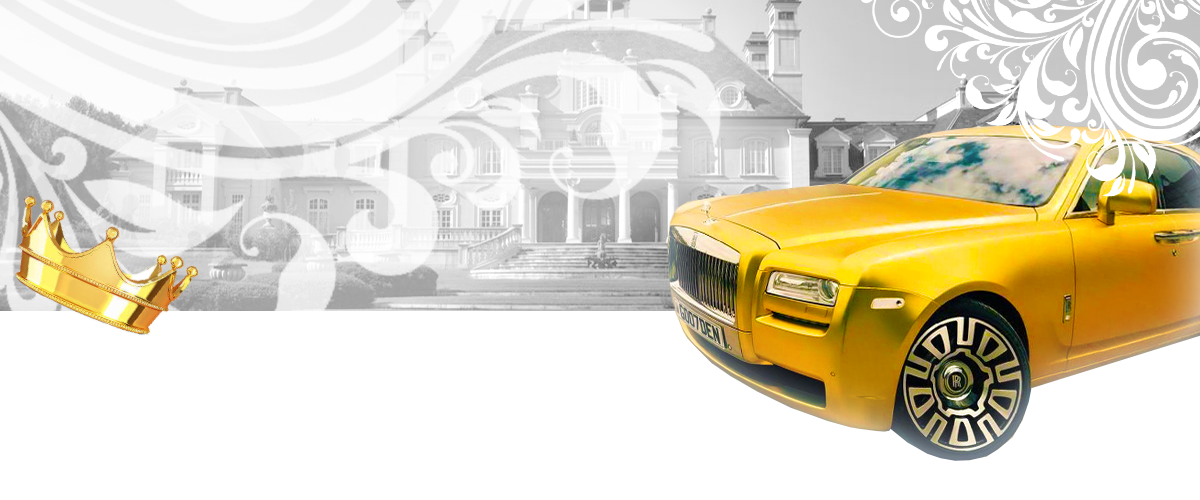
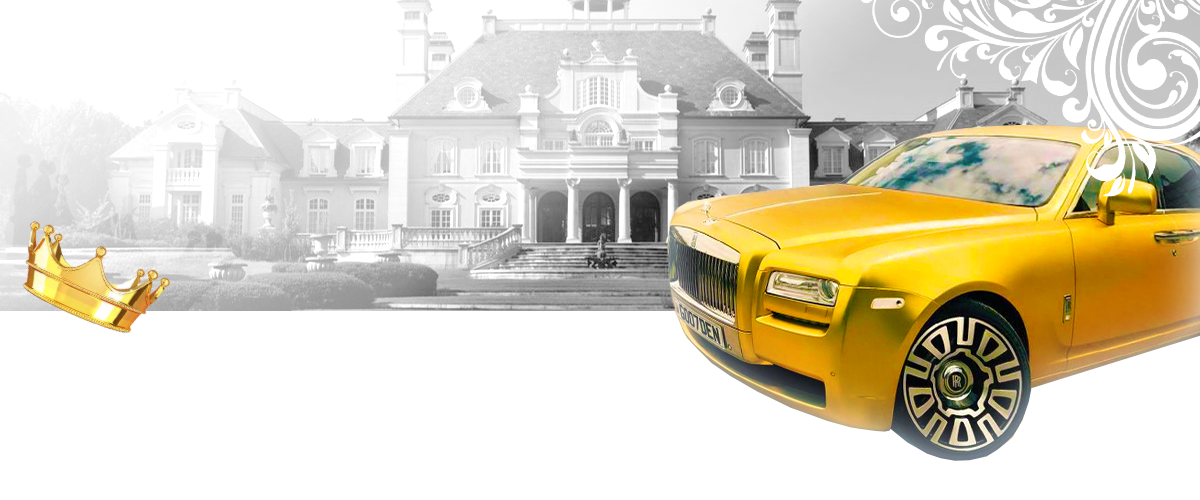
Visuella justeringar

diff --git a/www/js/App.js b/www/js/App.js
@@ -68,10 +68,12 @@ class App extends Base {
     return /*html*/`
       <div class="container main-wrapper pl-0 pr-0 shadow-lg" base-title="Dhyr & Rumson: ">
         <header>
-          ${this.heroSection}
-          ${this.navBar}
-          <!-- Keep navBarSearch after navBar! -->
-          ${this.navBarSearch}
+          <div class="shadow">
+            ${this.heroSection}
+            ${this.navBar}
+            <!-- Keep navBarSearch after navBar! -->
+            ${this.navBarSearch}
+          </div>
         </header>
         <main>
           ${this.startPage}

diff --git a/www/sass/_miscellaneous.scss b/www/sass/_miscellaneous.scss
@@ -166,17 +166,17 @@ p, .paragraph-maxwidth {
 // Styling and media toggle for the navbar searchfield and button in navbar
 .search-in-hero {
   width: 40%;
-  right: 15px;
+  right: 10px;
   color: rgb(255, 255, 255);
   position: absolute;
   // Adjust this accordingly depending on hero images pixel height
-  top: -176px;
+  top: -97px;
 
   // Move searchform below navbar when toggled hamburger menu
   @media (max-width: 992px) {
     position: relative;
     width: 85%;
-    top:  0px;
+    top:  -50px;
     right: 0px;
     margin: 70px auto 40px auto;
   }

diff --git a/www/js/NavBar.js b/www/js/NavBar.js
@@ -2,7 +2,7 @@ class NavBar extends Base {
 
   render() {
     return /*html*/`
-    <div class="container-md shadow mb-4">
+    <div class="container-md mb-4">
       <nav class="navbar navbar-expand-lg navbar-light">
         <div><!-- <a class="navbar-brand" href="/">Dhyr & Rumson</a> Replaced by clickable HERO. But do not remove this div --></div>
         <button class="navbar-toggler btn-block btn" type="button" data-toggle="collapse" data-target="#navbarNav" aria-controls="navbarNav" aria-expanded="false" aria-label="Toggle navigation">
